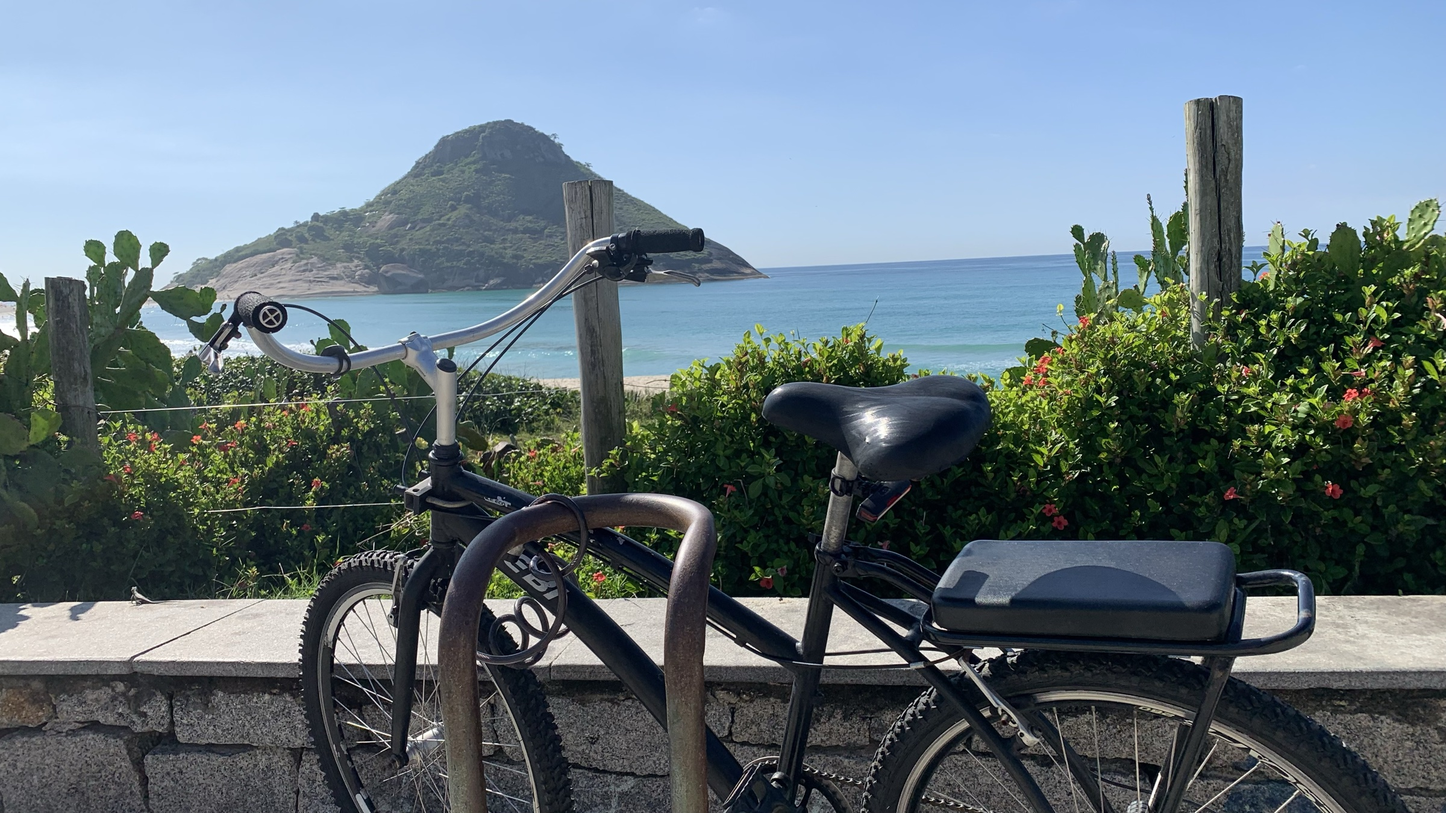
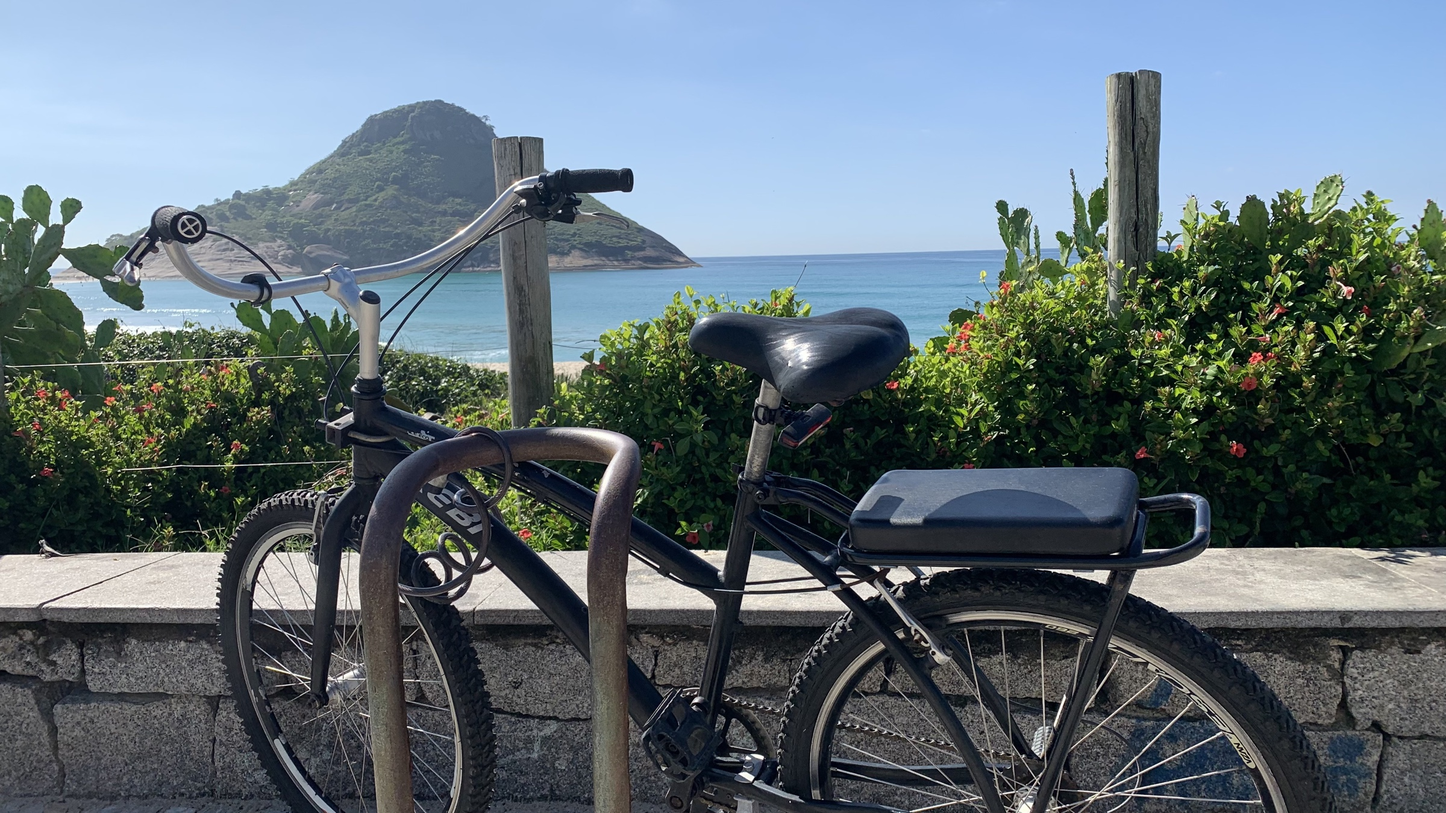
refine tour and domain heroes

diff --git a/minimoi_portal/templates/tour.html b/minimoi_portal/templates/tour.html
@@ -356,17 +356,15 @@
         </a>
         <figcaption><span>01</span> Start at the Chief of Staff landing</figcaption>
       </figure>
-      {% if show_private_cos %}
       <figure class="tour-shot tour-shot-wide">
-        <a class="tour-shot-link" href="/static/tour/cos-confer-private.png"
+        <a class="tour-shot-link" href="/static/tour/cos-confer.png"
            aria-label="View Chief of Staff Confer full size">
-          <img src="/static/tour/cos-confer-private.png"
+          <img src="/static/tour/cos-confer.png"
                alt="Chief of Staff Confer conversation"
                width="1573" height="1000" loading="lazy">
         </a>
-        <figcaption><span>02</span> Confer across the system</figcaption>
+        <figcaption><span>02</span> Bring a request to Confer and work through the response</figcaption>
       </figure>
-      {% endif %}
     </div>
   </section>
 </main>

diff --git a/domains/portuguese/static/portuguese.css b/domains/portuguese/static/portuguese.css
@@ -101,8 +101,7 @@ body {
   flex-direction: column;
 }
 
-/* Background photo — landing page only, activated by body.landing-mode
-   Drop bg-primary.jpg into static/ (Rio photo, dark enough at 0.45 opacity) */
+/* Background photo — landing page only, activated by body.landing-mode. */
 body::before {
   content: '';
   position: fixed;
@@ -110,14 +109,15 @@ body::before {
   background-image: url('/static/bg-primary.jpg');
   background-size: cover;
   background-repeat: no-repeat;
-  background-position: center center;
+  background-position: 42% top;
   opacity: 0;
   z-index: -1;
   transition: opacity 0.2s;
 }
 
 body.landing-mode::before {
-  opacity: 0.55;
+  opacity: 1;
+  filter: none;
 }
 
 body.leitura-mode::before {

diff --git a/domains/portuguese/templates/portuguese_base.html b/domains/portuguese/templates/portuguese_base.html
@@ -7,7 +7,7 @@
   <link rel="preconnect" href="https://fonts.googleapis.com">
   <link rel="preconnect" href="https://fonts.gstatic.com" crossorigin>
   <link href="https://fonts.googleapis.com/css2?family=IBM+Plex+Mono:wght@400;500&display=swap" rel="stylesheet">
-  <link rel="stylesheet" href="/static/portuguese.css?v=12">
+  <link rel="stylesheet" href="/static/portuguese.css?v=13">
   {% block head %}{% endblock %}
 </head>
 <body class="{{ active }}-mode">

diff --git a/domains/cos/templates/cos_landing.html b/domains/cos/templates/cos_landing.html
@@ -4,7 +4,7 @@
   <meta charset="utf-8">
   <meta name="viewport" content="width=device-width, initial-scale=1">
   <title>Chief of Staff</title>
-  <link rel="stylesheet" href="/static/cos.css?v=2">
+  <link rel="stylesheet" href="/static/cos.css?v=3">
 </head>
 <body class="landing-mode">
 

diff --git a/domains/cos/static/cos.css b/domains/cos/static/cos.css
@@ -144,7 +144,7 @@ body.landing-mode .cos-header { position: sticky; top: 0; }
   content: '';
   position: absolute;
   inset: 0;
-  background: rgba(17, 17, 8, 0.18);
+  background: rgba(17, 17, 8, 0.12);
   pointer-events: none;
 }
 

diff --git a/tests/test_auth.py b/tests/test_auth.py
@@ -203,6 +203,7 @@ def test_public_tour_is_chooser_only_with_privacy_safe_cos(client):
     assert "Guild" in html
     assert "Chief of Staff" in html
     assert "cos-confer-private.png" not in html
+    assert "cos-confer.png" in html
     assert "cos-landing.jpg" in html
     assert "/app/cos" not in html
     assert "<form" not in html
@@ -228,7 +229,7 @@ def test_public_tour_is_chooser_only_with_privacy_safe_cos(client):
         img.get("src")
         for img in soup.select('.tour-shot img[src^="/static/tour/"]')
     ]
-    assert len(images) == 19
+    assert len(images) == 20
     assert "/static/tour/curator-research-tools.jpg" not in images
     assert all((static_root / src.removeprefix("/static/")).is_file() for src in images)
     full_size_links = [
@@ -249,12 +250,12 @@ def test_public_tour_is_chooser_only_with_privacy_safe_cos(client):
     assert len(soup.select("section#german .tour-shot")) == 6
     assert len(soup.select("section#portuguese .tour-shot")) == 6
     assert len(soup.select("section#guild .tour-shot")) == 2
-    assert len(soup.select("section#cos .tour-shot")) == 1
+    assert len(soup.select("section#cos .tour-shot")) == 2
     assert all(section.has_attr("hidden") for section in soup.select(".tour-section"))
     assert not soup.select(".tour-step-nav")
 
 
-def test_owner_tour_includes_cos_landing_and_confer(client):
+def test_owner_tour_uses_same_privacy_safe_cos_slides(client):
     with client.session_transaction() as sess:
         sess["user"] = {
             "username": "robert",
@@ -269,7 +270,7 @@ def test_owner_tour_includes_cos_landing_and_confer(client):
     images = [img.get("src") for img in section.select(".tour-shot img")]
     assert images == [
         "/static/tour/cos-landing.jpg",
-        "/static/tour/cos-confer-private.png",
+        "/static/tour/cos-confer.png",
     ]
 
 

diff --git a/minimoi_portal/app.py b/minimoi_portal/app.py
@@ -249,7 +249,6 @@ def tour():
         "tour.html",
         user=user,
         workspaces=tour_workspaces,
-        show_private_cos=can_access_workspace(user, "cos"),
     )
 
 
